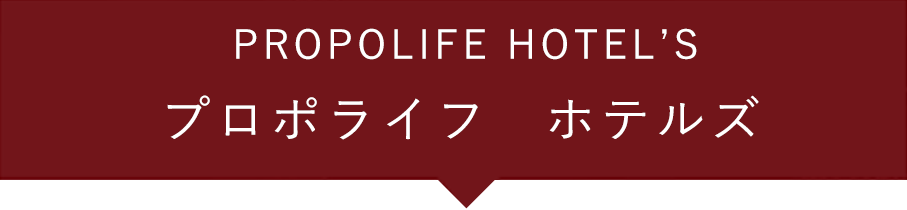
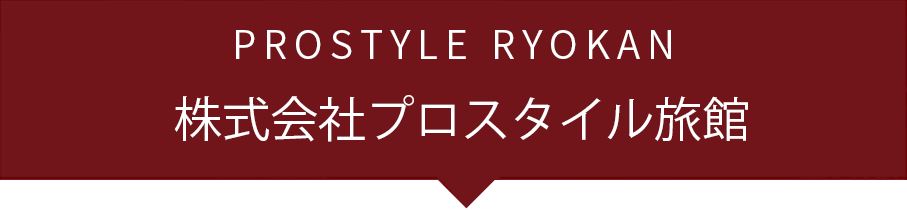
overwrite image and text in www.propolifehotels.com

Changed region(s): [[0.1852, 0.4571, 0.8335, 0.6857], [0.247, 0.1143, 0.7718, 0.2857]]

diff --git a/propolifehotels/index.html b/propolifehotels/index.html
@@ -137,14 +137,14 @@
 						<div class="faq_list">
 							<dl id="acMenu">
 								<dt id="first">
-									株式会社プロポライフホテルズとは、何をする会社ですか。<span></span>
+									株式会社プロスタイル旅館とは、何をする会社ですか。<span></span>
 								</dt>
 								<dd class="open">
-									株式会社プロポライフホテルズは、国内および海外における、ホテル（旅館）、レストラン、バー、スポーツ施設、その他関連施設の開発、経営、運営、受託、コンサルティング業務を行う会社です。
+									株式会社プロスタイル旅館は、国内および海外における、ホテル（旅館）、レストラン、バー、スポーツ施設、その他関連施設の開発、経営、運営、受託、コンサルティング業務を行う会社です。
 								</dd>
 
 								<dt>
-									株式会社プロポライフホテルズに、ホテル（旅館）運営をお願いする、									またはコンサルティングをしてもらうことはできますか。<span></span>
+									株式会社プロスタイル旅館に、ホテル（旅館）運営をお願いする、									またはコンサルティングをしてもらうことはできますか。<span></span>
 								</dt>
 								<dd>
 									運営受託業務、コンサルティング業務として対応させていただきます。<br>
@@ -161,22 +161,22 @@
 								</dd>
 
 								<dt>
-									株式会社プロポライフホテルズのホテルはどこにありますか。<span></span>
+									株式会社プロスタイル旅館のホテルはどこにありますか。<span></span>
 								</dt>
 								<dd>
 									2018年8月にオープンしたプロスタイル旅館 横浜馬車道 (https://www.prostyleryokan.com/yokohamabashamichi/)がございます。2019年には浅草にも開業を予定しています。
 								</dd>
 
 								<dt>
-									株式会社プロポライフホテルズはどんなホテル（旅館）をつくるのですか。<span></span>
+									株式会社プロスタイル旅館はどんなホテル（旅館）をつくるのですか。<span></span>
 								</dt>
 								<dd>
 									具体的案件については、今後随時お知らせするサイトのトピックをご覧ください。<br>
-									株式会社プロポライフホテルズのホテル（旅館）は、旅先でお客様がお感じになられるご不安、ご不便などを極力減らすことを役割とし、空間とサービスを提供させていただきます。
+									株式会社プロスタイル旅館のホテル（旅館）は、旅先でお客様がお感じになられるご不安、ご不便などを極力減らすことを役割とし、空間とサービスを提供させていただきます。
 								</dd>
 
 								<dt>
-									株式会社プロポライフホテルズには、ブランドはありますか。<span></span>
+									株式会社プロスタイル旅館には、ブランドはありますか。<span></span>
 								</dt>
 								<dd>
 									現在は「プロスタイル」ブランドで、3つのカテゴリでの展開を検討しています。新築物件、改装物件にも対応しますが、カテゴリーは「ホテル・旅館」「ゲストハウス」「ヴィラ、スウィート」となります。
@@ -209,7 +209,7 @@
 									土地を所有していて、ホテル（旅館）を計画しようと思っていますが、相談にのってもらえますか。<span></span>
 								</dt>
 								<dd>
-									不動産、資産活用については株式会社プロポライフグループが対応し、ホテル（旅館）運営については株式会社プロポライフホテルズが対応、グループの総合力でワンストップでご相談に対応をいたします。
+									不動産、資産活用については株式会社プロポライフグループが対応し、ホテル（旅館）運営については株式会社プロスタイル旅館が対応、グループの総合力でワンストップでご相談に対応をいたします。
 								</dd>
 							</dl>
 						</div>
@@ -499,7 +499,7 @@
 					<li><a href="https://page.line.me/propolifegroup" target="_blank"><img src="images/line_ico.png" width="19px" alt="LINE"></a></li>
 				</ul>
 			</div>
-			<p class="copy"><small>Copyright &copy; PROPOLIFE HOTEL’S All Rights Reserved.</small></p>
+			<p class="copy"><small>Copyright &copy; PROSTYLE RYOKAN All Rights Reserved.</small></p>
 		</footer>
 		<script src="//ajax.googleapis.com/ajax/libs/jquery/1.9.1/jquery.min.js"></script>
 		<script src="js/jquery.easing.1.3.js"></script>
